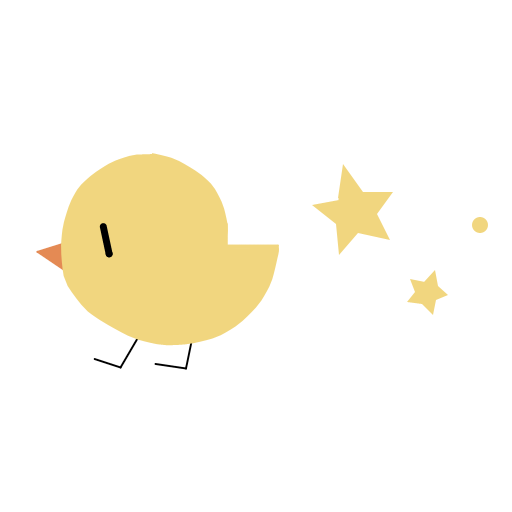
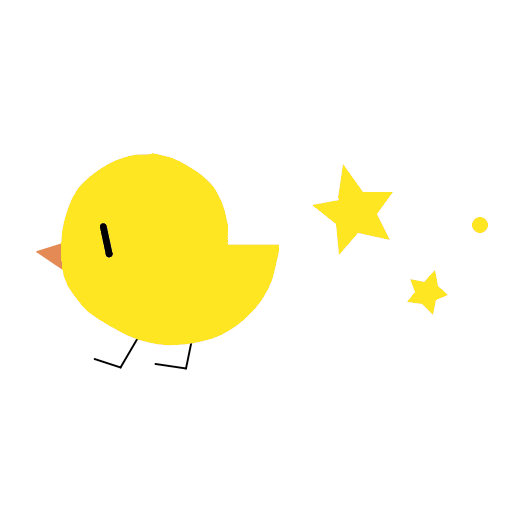
ゲージの画像変更とアイテム攻撃のモーション

diff --git a/3D_Base/Source/GameObject/UIObject/GaugeBase/GaugeFrame/CGaugeFrame.cpp b/3D_Base/Source/GameObject/UIObject/GaugeBase/GaugeFrame/CGaugeFrame.cpp
@@ -2,6 +2,7 @@
 
 CGaugeFrame::CGaugeFrame()
 {
+	m_vScale = { m_GaugeSize, m_GaugeSize, 1.f };
 }
 
 CGaugeFrame::~CGaugeFrame()
